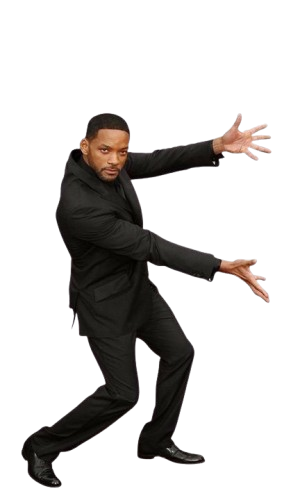
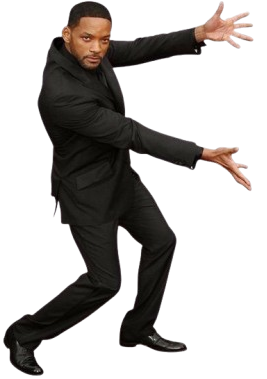
up

Changed region(s): [[0.0, 0.0, 0.9588, 1.0]]

diff --git a/README.md b/README.md
@@ -5,15 +5,12 @@
   />
 </p>
 
-<img src="img/ba68cf3183a7dfd8479135f49008fc86-removebg-preview.png" width="16%" align="left" style="margin-top:-180px; margin-bottom:-100px;" />
-
-
-<p align="center" style="margin-top: 0px;">
-  <font size="100">
-    Welcome to my GitHub profile! I'm currently exploring<br>
-    the world of tech and loving the process 💻✨
-  </font>
-  <br><br>
+<div align="center">
+<img src="img/ba68cf3183a7dfd8479135f49008fc86-removebg-preview.png" width="25%" align="left" />
+<p align="center">
+  <span style="display: inline-block; width: 75%; text-align: justify; vertical-align: top;">
+    Welcome to my GitHub profile! I'm currently exploring the world of tech and loving the process 💻✨
+    <p align="center" style="margin-top: 0px;">
   <a href="http://instagram.com/senaliadvp">
     <img src="https://img.shields.io/badge/Instagram-E4405F?style=for-the-badge&logo=instagram&logoColor=white" />
   </a>
@@ -34,6 +31,12 @@
 
 <img src="https://img.shields.io/badge/YouTube-FF0000?style=for-the-badge&logo=youtube&logoColor=white">
 </p>
+  </span>
+</p>
+<br><br>
+
+</div>
+
 
 <img src="https://raw.githubusercontent.com/andreasbm/readme/master/assets/lines/colored.png" width="100%" />
 
